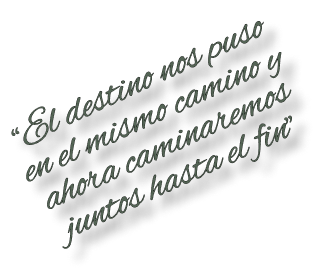
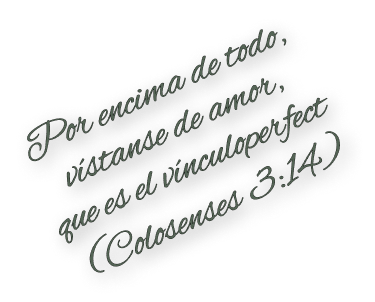
Se cambia el mensaje principal por un versiculo

Changed region(s): [[0.0308, 0.0593, 0.9231, 0.9185]]

diff --git a/styles/style.css b/styles/style.css
@@ -55,14 +55,6 @@ body {
     padding: 3% 3% 5% 3%;
 }
 
-.start .section-container header .contenedor-mensajeHeader {
-    display: inline-block;
-    position: relative;
-    text-align: justify;
-    margin-top: 2%;
-    margin-left: 0%;
-}
-
 .start .section-container header .contenedor-LetrasTitulo {
     margin: 15% 0% 0% 25%;
     position: absolute;
@@ -72,11 +64,25 @@ body {
     transform: translate(-50%, -50%);
 }
 
+.start .section-container header .contenedor-mensajeHeader {
+    display: inline-block;
+    position: relative;
+    text-align: center;
+    margin-top: 11%;
+    margin-left: 0%;
+    transform: rotate(-25deg);
+    text-shadow: 12px 11px 65px #fff;
+}
+
 .start .section-container header .contenedor-mensajeHeader .Imagen-MensajeInicial {
     position: absolute;
     width: 30rem;
     height: 12rem;
-
+    font-family: "Alex Brush";
+    font-size: 4rem;
+    color: #054113;
+    font-weight: 900;
+    line-height: 100%;
 }
 
 .start .section-container header .contenedor-LetrasTitulo .contenedor-NosCasamos p {
@@ -266,7 +272,7 @@ body {
         padding: 3% 3% 5% 3%;
     }
 
-    .start .section-container header .contenedor-mensajeHeader {
+    /* .start .section-container header .contenedor-mensajeHeader {
         display: inline-block;
         position: relative;
         text-align: justify;
@@ -278,6 +284,27 @@ body {
         position: absolute;
         width: 25rem;
         height: 10rem;
+    } */
+
+    .start .section-container header .contenedor-mensajeHeader {
+        display: inline-block;
+        position: relative;
+        text-align: center;
+        margin-top: 11%;
+        margin-left: 1%;
+        transform: rotate(-25deg);
+        text-shadow: 12px 11px 65px #fff;
+    }
+    
+    .start .section-container header .contenedor-mensajeHeader .Imagen-MensajeInicial {
+        position: absolute;
+        width: 22rem;
+        height: 12rem;
+        font-family: "Alex Brush";
+        font-size: 3rem;
+        color: #054113;
+        font-weight: 900;
+        line-height: 100%;
     }
 
     .start .section-container header .contenedor-LetrasTitulo {
@@ -479,15 +506,22 @@ screen and (min-height: 1366px) {
     .start .section-container header .contenedor-mensajeHeader {
         display: inline-block;
         position: relative;
-        text-align: justify;
-        margin-top: 1%;
-        margin-left: 0%;
+        text-align: center;
+        margin-top: 12%;
+        margin-left: -1%;
+        transform: rotate(-25deg);
+        text-shadow: 12px 11px 65px #fff;
     }
-
+    
     .start .section-container header .contenedor-mensajeHeader .Imagen-MensajeInicial {
         position: absolute;
-        width: 25rem;
-        height: 10rem;
+        width: 22rem;
+        height: 12rem;
+        font-family: "Alex Brush";
+        font-size: 3rem;
+        color: #054113;
+        font-weight: 900;
+        line-height: 100%;
     }
 
     .start .section-container header .contenedor-LetrasTitulo {
@@ -687,15 +721,22 @@ screen and (min-height: 1366px) {
     .start .section-container header .contenedor-mensajeHeader {
         display: inline-block;
         position: relative;
-        text-align: justify;
-        margin-top: 1%;
+        text-align: center;
+        margin-top: 11%;
         margin-left: 0%;
+        transform: rotate(-25deg);
+        text-shadow: 12px 11px 65px #fff;
     }
-
+    
     .start .section-container header .contenedor-mensajeHeader .Imagen-MensajeInicial {
         position: absolute;
-        width: 9rem;
-        height: 5rem;
+        width: 7rem;
+        height: 12rem;
+        font-family: "Alex Brush";
+        font-size: 1rem;
+        color: #054113;
+        font-weight: 700;
+        line-height: 100%;
     }
 
     .start .section-container header .contenedor-LetrasTitulo {

diff --git a/index.html b/index.html
@@ -19,7 +19,11 @@
         <div class="section-container">
             <header>
                 <div class="contenedor-mensajeHeader">
-                    <img class="Imagen-MensajeInicial" src="images/images/Mensaje_inicial.png" alt="mensajeInicial">
+                    <p class="Imagen-MensajeInicial">Por encima de todo, vístanse de amor que es el vínculo perfecto. (Colosenses 3:14)</p>
+                        <!-- <br class="separacion-MensajeInicial">vístanse de amor
+                        <br class="separacion-MensajeInicial">que es el vínculo perfecto.
+                        <br class="separacion-MensajeInicial">(Colosenses 3:14)</p> -->
+                    <!-- <img class="Imagen-MensajeInicial" src="images/images/Mensaje_inicial.png" alt="mensajeInicial"> -->
                 </div>
                 <div class="contenedor-LetrasTitulo">
                     <!-- logo -->
